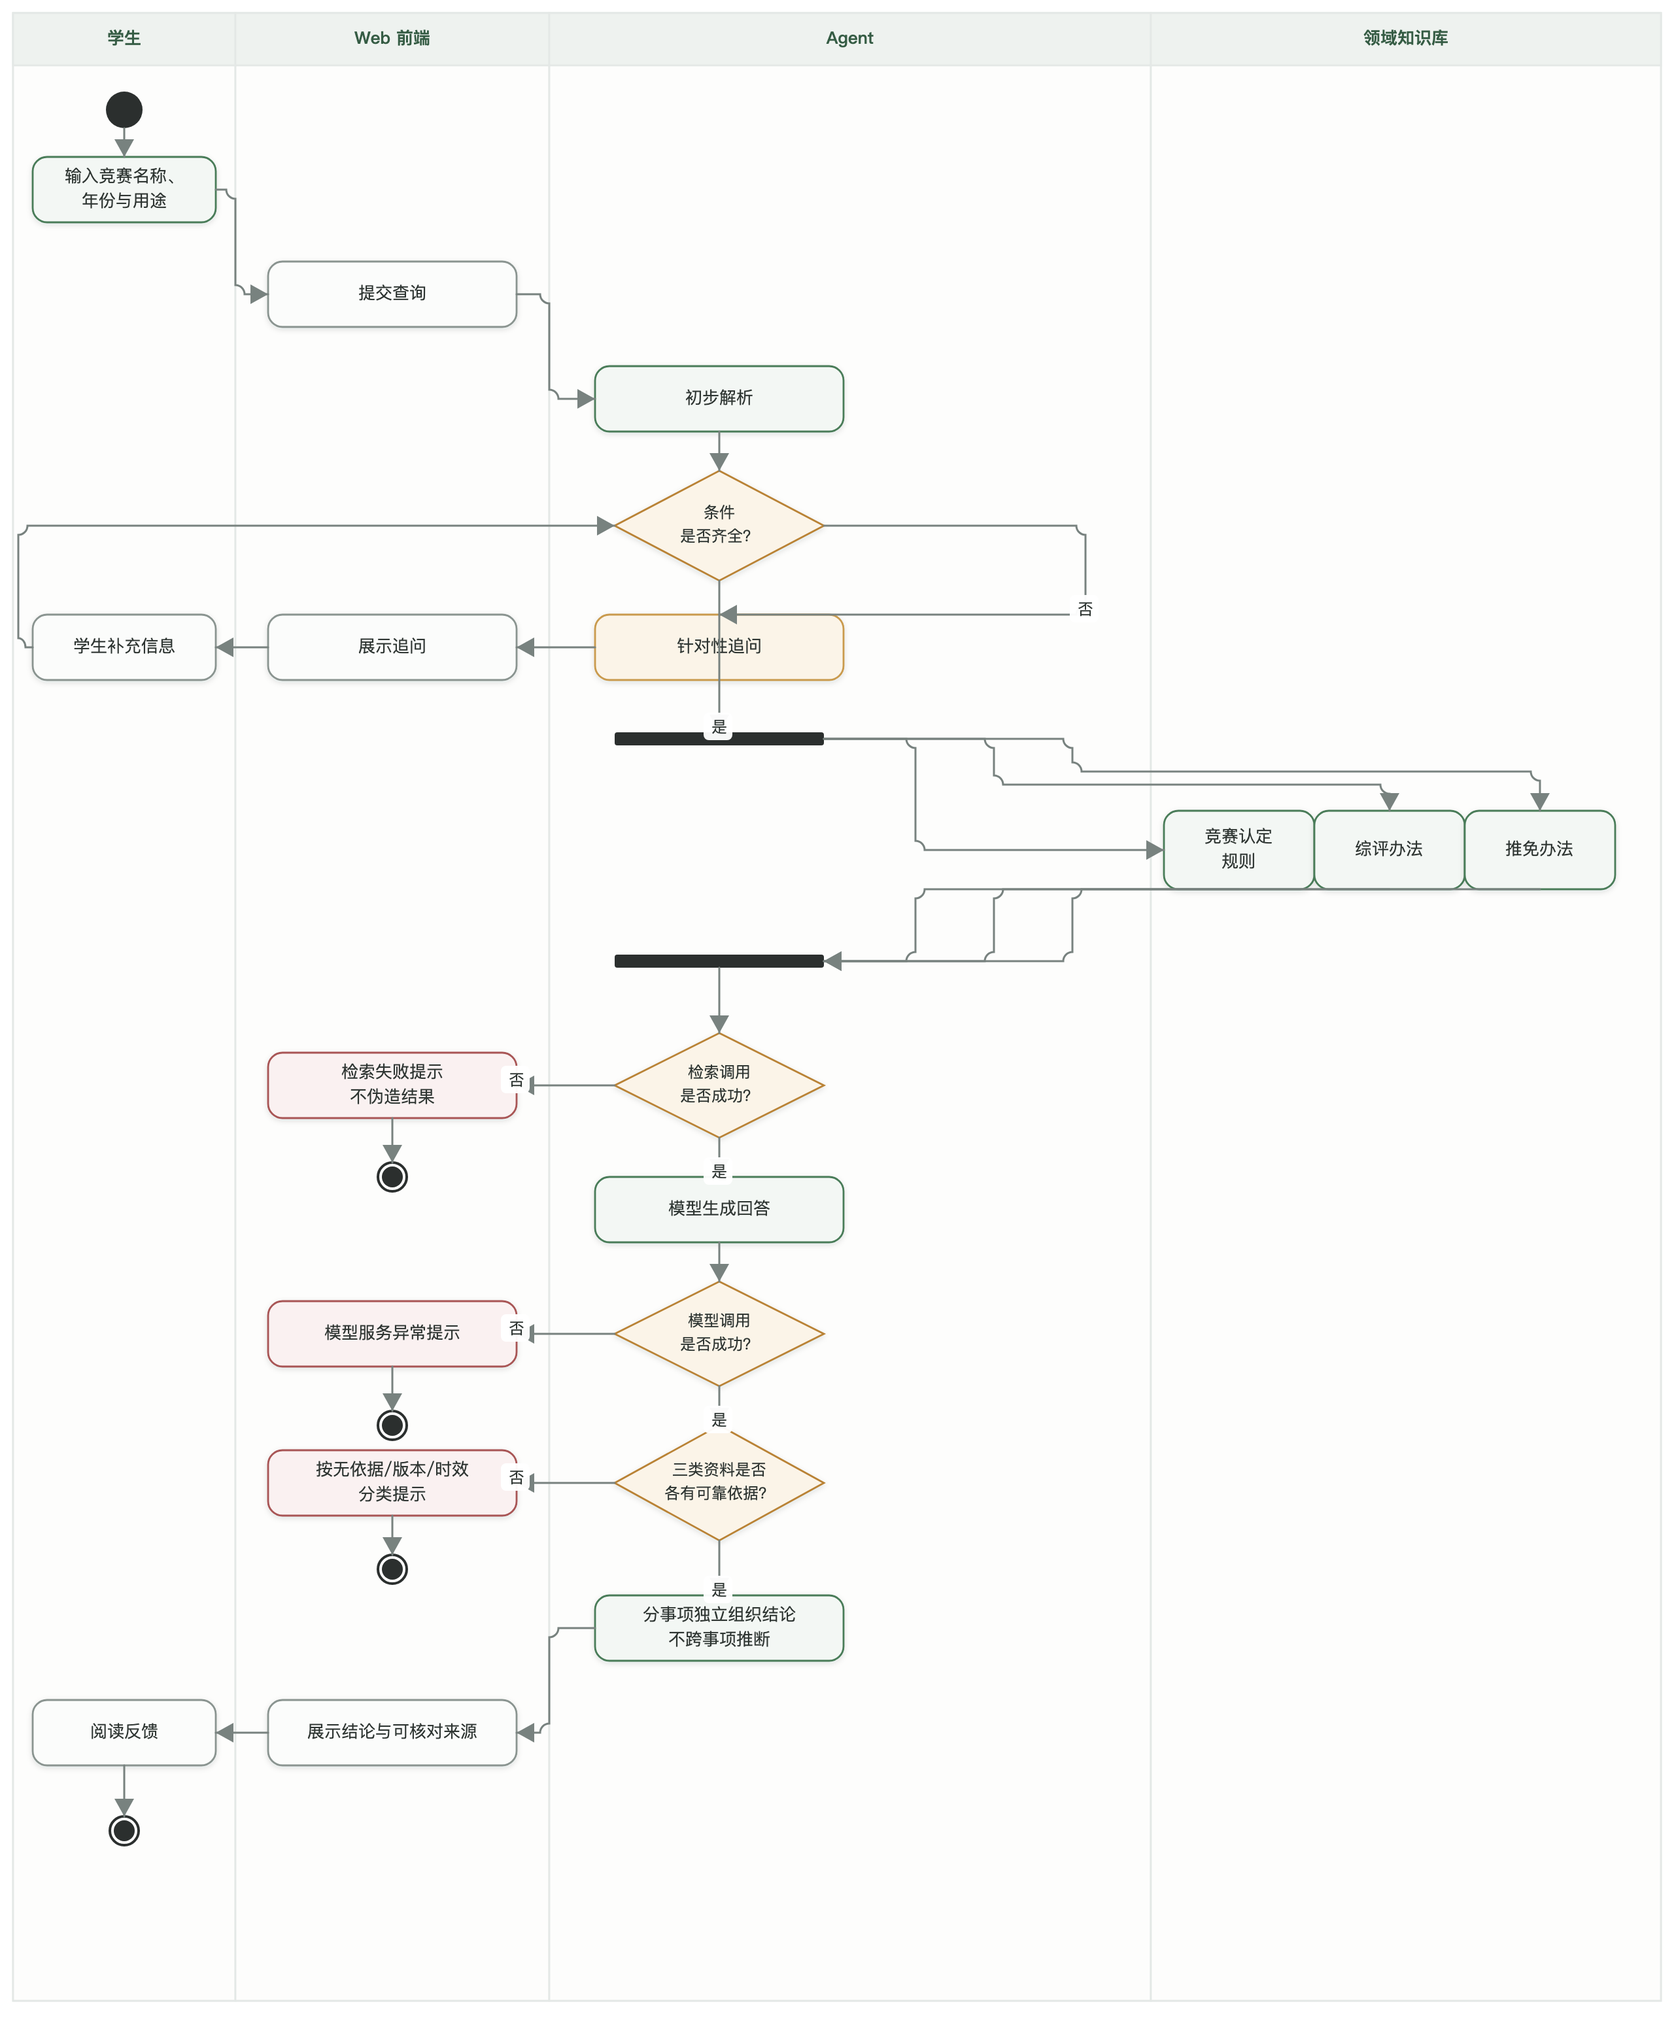
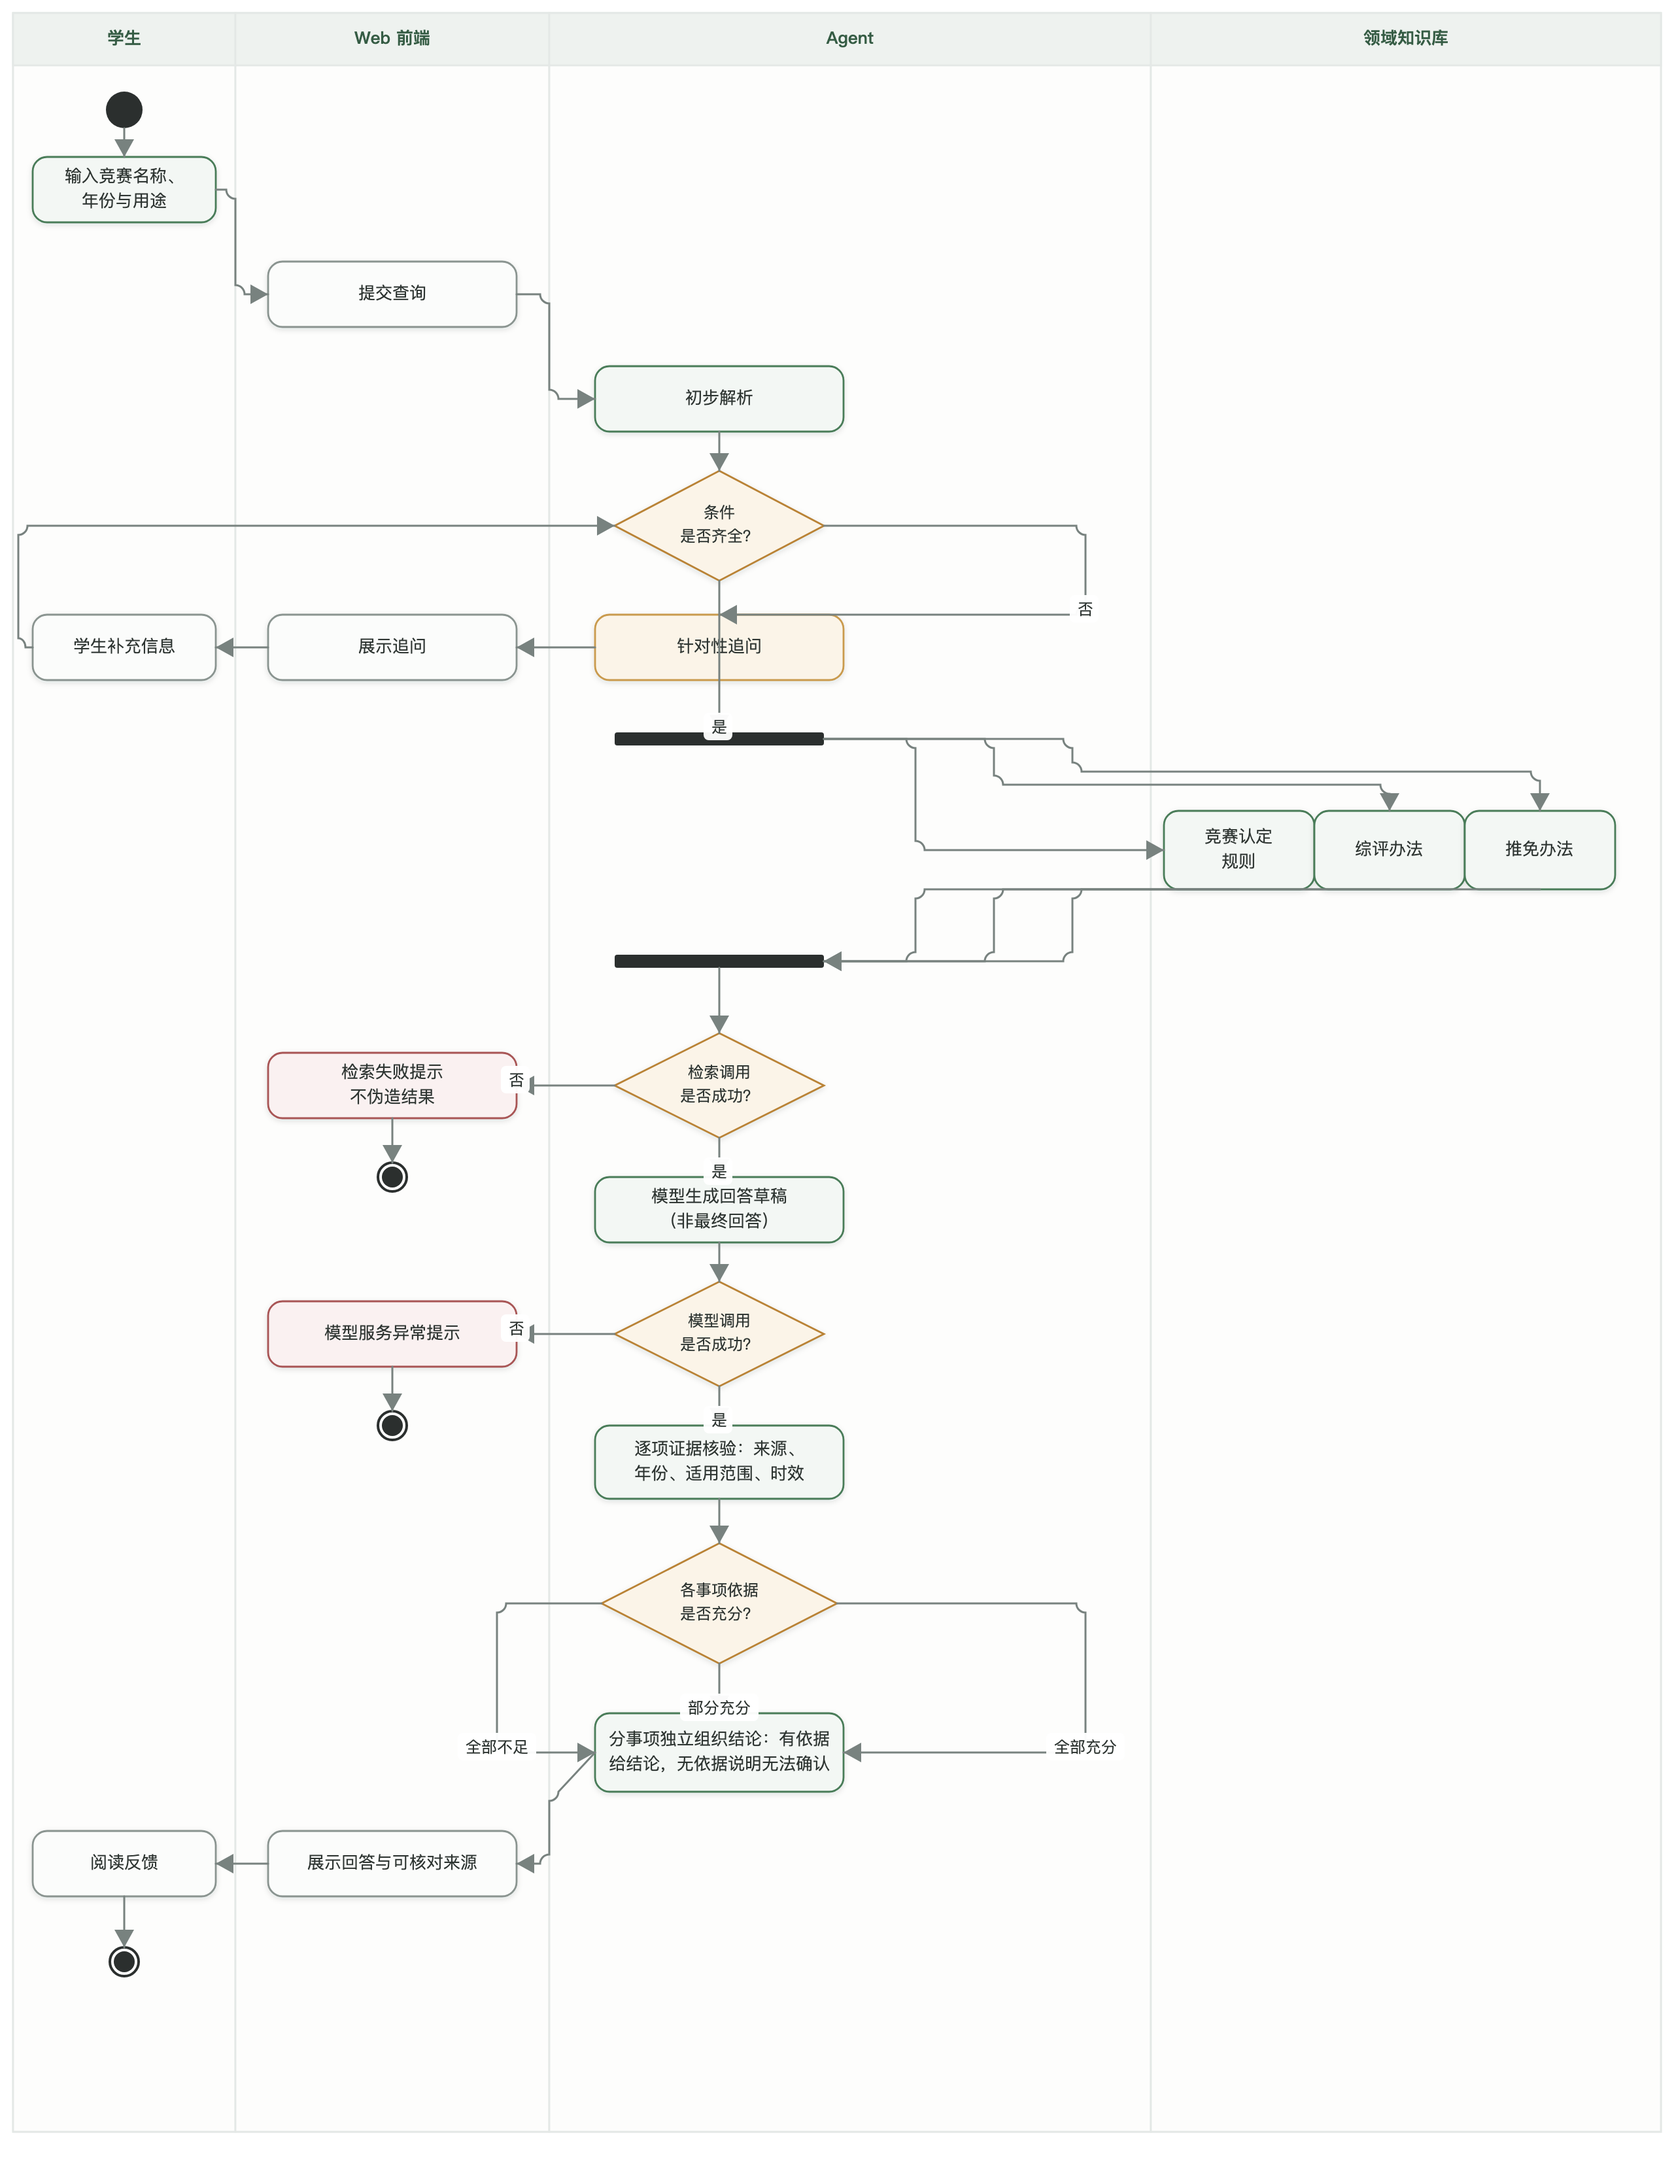
docs: 竞赛活动图区分草稿与最终回答并分事项判断，标注交换出国资料缺口，统一索引术语

diff --git a/docs/assignment-02/system-design/diagrams/uml/activity/活动图流程说明_v1.md b/docs/assignment-02/system-design/diagrams/uml/activity/活动图流程说明_v1.md
@@ -1,6 +1,6 @@
 # CodeMind-FZU UML 活动图流程说明
 
-**版本**：v1.1
+**版本**：v1.2
 **日期**：2026-11-08
 
 ---
@@ -51,29 +51,41 @@
 2. 决策零：条件是否齐全。不齐全时针对性追问并循环（对应 TC-02）；
 3. 条件齐全后进入分叉节点，**同时启动三个并行检索：竞赛认定规则、综评办法、推免办法**，三个检索在知识库泳道并行执行，再由汇合节点收齐；
 4. 决策一：检索调用是否成功。检索失败时前端给出失败提示、不伪造结果（对应 TC-07 中的检索异常）；
-5. 检索成功后由模型生成回答；
+5. 检索成功后由模型**生成回答草稿**，此时内容还不是最终回答，不能直接展示；
 6. 决策二：模型调用是否成功。模型服务异常时前端给出异常提示（对应 TC-07 中的模型异常）；
-7. 决策三：三类资料是否各自有可靠依据，按情况进入不同提示：
-   - 无依据：对应事项说明无法确认（TC-03）；
-   - 版本不同：说明年份与适用范围差异（TC-04）；
-   - 时效未确认：标注核验状态（TC-06）；
-8. 依据齐全时，Agent 分事项独立组织结论，不把某一事项的规则推断到另一事项（TC-05）；
-9. 前端展示结论与可核对来源（TC-01），学生阅读反馈后到达最终节点。
+7. 模型成功后，对检索到的资料**逐项进行证据核验**，核对来源、年份、适用范围和政策时效；
+8. 决策三：各事项依据是否充分，分三个出口——全部充分、部分充分、全部不足；
+9. 无论哪个出口，都进入分事项独立组织结论：有可靠依据的事项正常给出结论，缺少依据的事项单独说明无法确认，**不因为一类资料缺失就拒绝回答全部内容**，也不把某一事项的规则推断到另一事项（TC-05）；
+10. 前端展示最终回答与可核对来源（TC-01），学生阅读反馈后到达最终节点。
 
-### 3.2 两个判断分开的原因
+### 3.2 草稿与最终回答的区别
+
+模型生成的回答草稿只是待核验的中间产物，必须经过逐项证据核验和分事项判断后，才作为最终回答展示。这样可以把"模型写了什么"和"证据支持什么"分开，避免草稿里未经证实的内容直接到达学生侧。
+
+### 3.3 分事项独立判断
+
+三个检索方向对应三个独立事项，证据核验逐项进行。决策三的三个出口都不整体拒答：
+
+| 出口 | 最终回答的组织方式 |
+|---|---|
+| 全部充分 | 三个事项都给出带来源的结论 |
+| 部分充分 | 有依据的事项正常回答，缺依据的事项单独提示无法确认，两部分并存 |
+| 全部不足 | 各事项分别说明无法确认，并给出核实建议 |
+
+### 3.4 检索与模型两个判断分开的原因
 
 检索调用与模型调用是两类不同的异常：前者是知识库没有返回结果或检索过程出错，后者是检索成功后模型服务不可用或返回异常。将两个决策节点分开，异常提示和处理路径才能各自对应，避免把检索失败误报成模型问题，或反过来。
 
-### 3.3 与验收用例的映射
+### 3.5 与验收用例的映射
 
 | 用例 | 活动图中的位置 |
 |---|---|
-| TC-01 资料充分 | 依据齐全，分事项组织结论并展示来源 |
+| TC-01 资料充分 | 分事项组织结论并展示来源 |
 | TC-02 条件不足 | 决策零与追问循环 |
-| TC-03 无可靠资料 | 决策三"无依据"分支 |
-| TC-04 版本不同 | 决策三"版本不同"分支 |
+| TC-03 无可靠资料 | 决策三对应事项的无法确认处理（不影响其他事项回答） |
+| TC-04 版本不同 | 逐项核验中对年份与适用范围差异的处理 |
 | TC-05 多事项分别处理 | 分叉并行检索与分事项独立组织结论 |
-| TC-06 时效未确认 | 决策三"时效未确认"分支 |
+| TC-06 时效未确认 | 逐项核验中的政策时效检查 |
 | TC-07 检索或模型异常 | 决策一（检索）与决策二（模型）两个失败分支 |
 
 ## 四、与业务流程图的区别

diff --git a/docs/assignment-02/system-design/diagrams/business-process/业务流程说明_v1.md b/docs/assignment-02/system-design/diagrams/business-process/业务流程说明_v1.md
@@ -1,6 +1,6 @@
 # CodeMind-FZU 业务流程说明
 
-**版本**：v1.1
+**版本**：v1.2
 **日期**：2026-11-08
 
 ---
@@ -83,7 +83,7 @@
 
 ### 3.4 索引构建与发布
 
-资料不是保存到知识库后立即可用。只有经过**人工核验、质量检查、发布入库并完成检索索引更新**后，资料才能被 Agent 检索到。检索索引包括用于语义检索的向量索引和用于关键词匹配的倒排索引，索引可从原始资料和元数据重新构建，原始资料、整理稿与 CSV 元数据才是可审计的事实来源。
+资料不是保存到知识库后立即可用。只有经过**人工核验、质量检查、发布入库并完成检索索引更新**后，资料才能被 Agent 检索到。检索索引包括用于语义检索的 Chroma 向量索引和用于关键词匹配的 BM25 倒排索引，索引可从原始资料和元数据重新构建，原始资料、整理稿与 CSV 元数据才是可审计的事实来源。
 
 ## 四、知识库现状与数据口径
 
